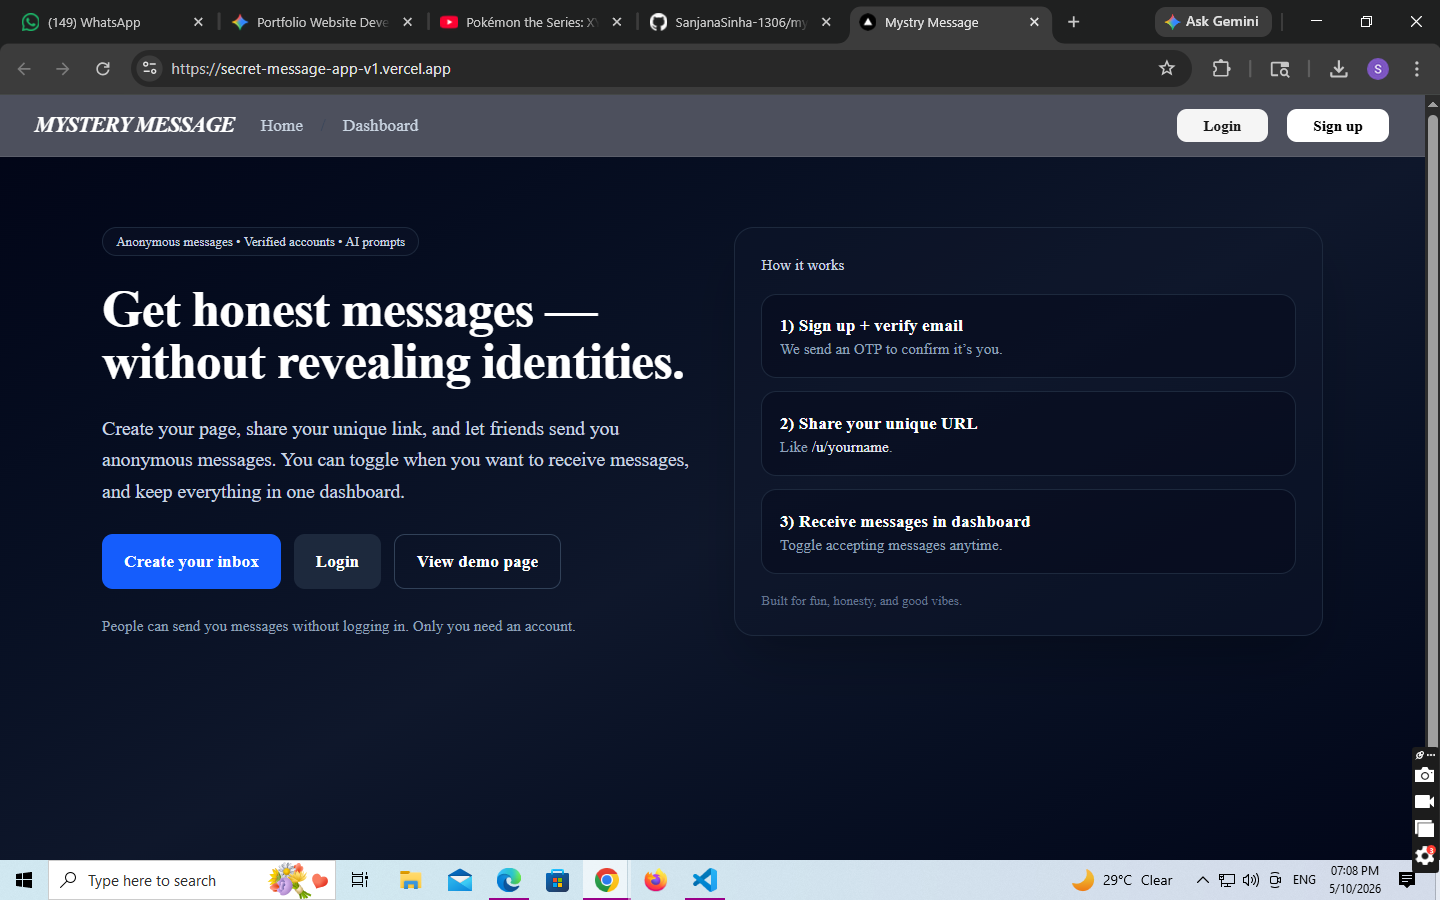
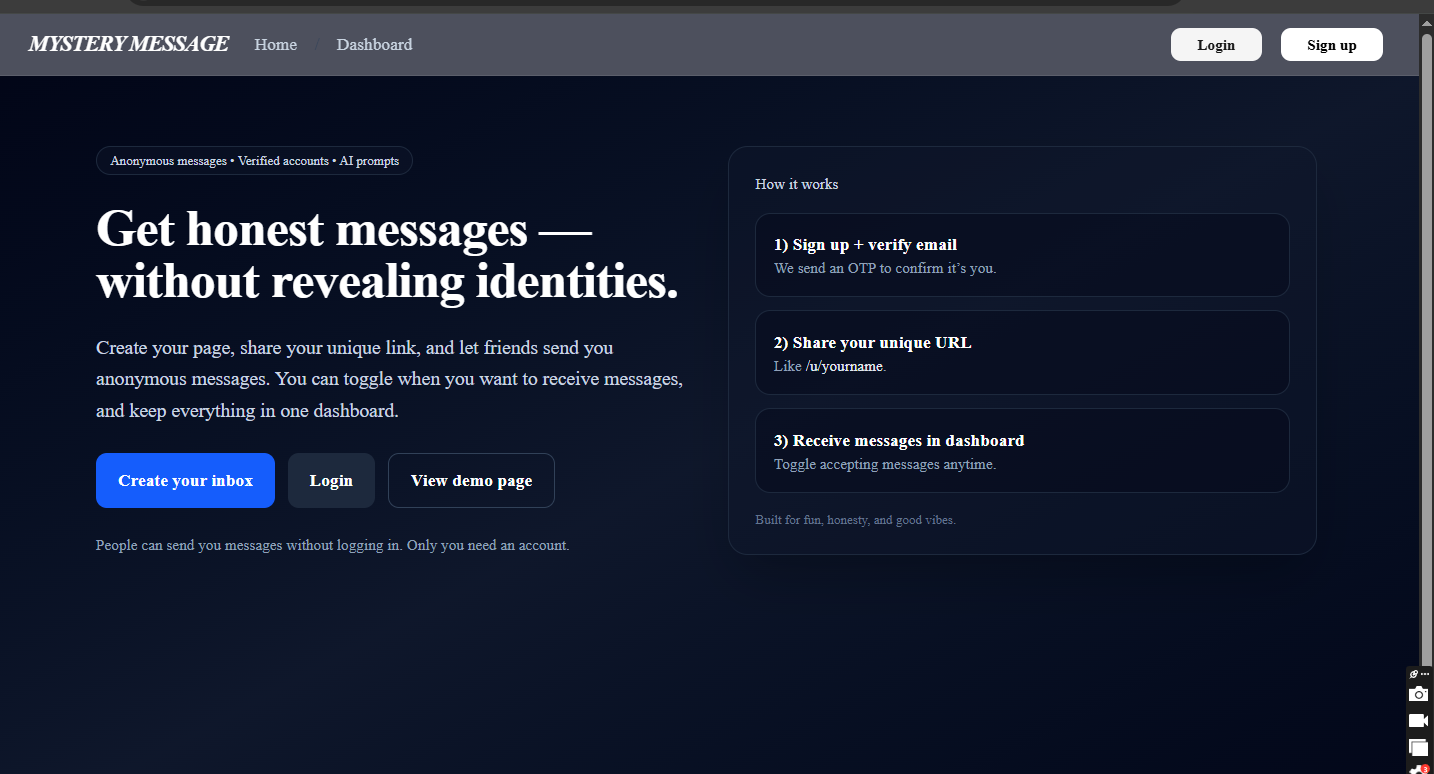
update photo

diff --git a/style.css b/style.css
@@ -28,7 +28,7 @@ body {
 /* Page 1 - NEW BACKGROUND IMAGE  */
 #home {
     background-image: linear-gradient(rgba(0, 0, 0, 0.5), rgba(0, 0, 0, 0.5)), 
-                      url('https://i.pinimg.com/1200x/8a/5b/bf/8a5bbf61147f32eb1cbb7f614b143e05.jpg');
+    url("https://i.pinimg.com/736x/ca/65/65/ca65653e486a7e1aa264531b23a934d6.jpg");
     background-size: cover;
     background-position: center;
     background-attachment: fixed;

diff --git a/index.html b/index.html
@@ -47,7 +47,7 @@
 
             <div class="doodle-sidebar">
                 <div class="doodle-avatar highlight-circle">
-                    <img src="https://i.pinimg.com/1200x/94/44/24/944424eb86eb8d97367b2cb15843a2f8.jpg" alt="Sanjana Doodle">
+                    <img src="photo/Screenshot (253).png" alt="Sanjana Doodle">
                 </div>
             </div>
         </div>
